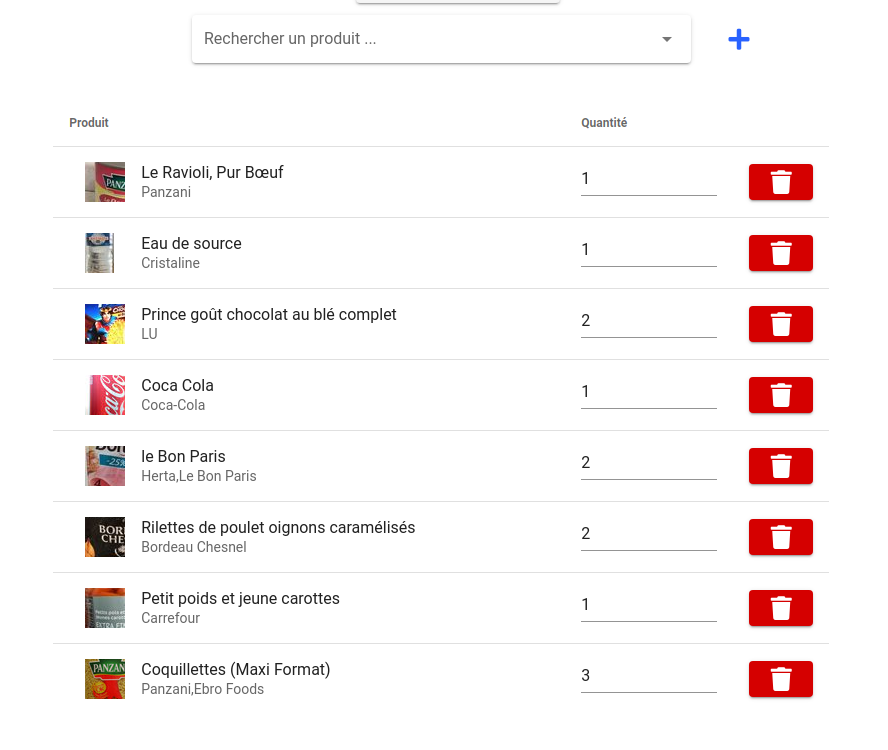
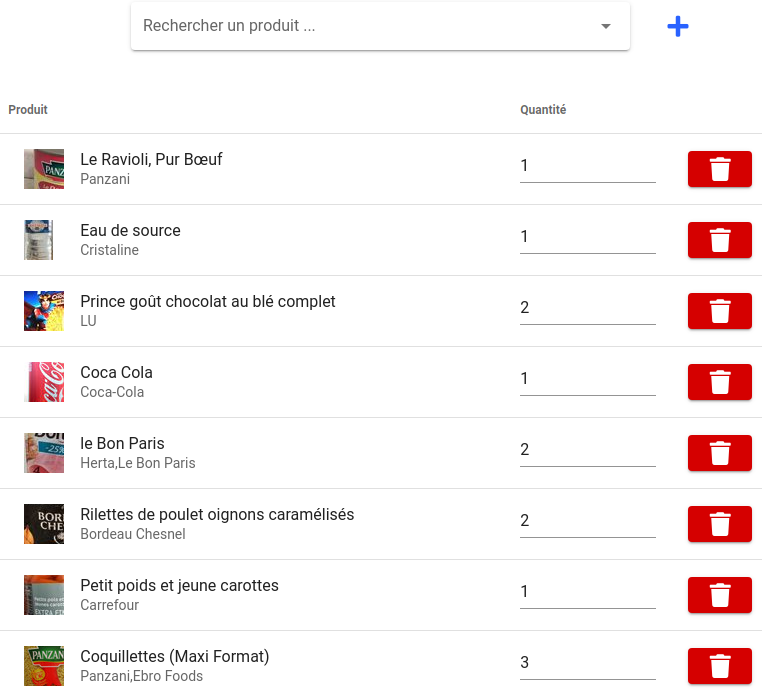
update images

diff --git a/about.md b/about.md
@@ -29,12 +29,10 @@ Notre application permet de pouvoir noter sa liste de course. Elle permet de com
 
 
 <h4 id="heading4">Collaboratif</h4>
-<amp-img width="600" height="500" layout="responsive" src="{{site.url}}{{ site.contribution1 }}"></amp-img> 
-<p style="display: inline-block;">
-<amp-img width="300" height="300" layout="responsive" src="{{site.url}}{{ site.contribution2 }}"></amp-img>
-<amp-img width="300" height="300" layout="responsive" src="{{site.url}}{{ site.contribution3 }}"></amp-img>
-</p>
-<amp-img width="600" height="500" layout="responsive" src="{{site.url}}{{ site.contribution4 }}"></amp-img>
+<amp-img width="600" height="400" layout="responsive" src="{{site.url}}{{ site.contribution1 }}"></amp-img> 
+<amp-img width="600" height="400" layout="responsive" src="{{site.url}}{{ site.contribution2 }}"></amp-img>
+<amp-img width="600" height="400" layout="responsive" src="{{site.url}}{{ site.contribution3 }}"></amp-img>
+<amp-img width="600" height="400" layout="responsive" src="{{site.url}}{{ site.contribution4 }}"></amp-img>
 <p>
 Chaque utilisateur peut être un contributeur pour notre application. Il peut scanner le code-barres d’un produit afin de l’identifier puis indique le prix et le magasin concerné. Cela aura pour conséquence que tous les utilisateurs, y compris lui, lorsqu’ils vont créer une liste de course contenant ce produit et que le magasin se situe dans la zone géolocalisée, le prix sera déjà connu.
 Un utilisateur peut proposer une liste de produit à scanner en convertissant sa liste de course en un panier public de recherche.
